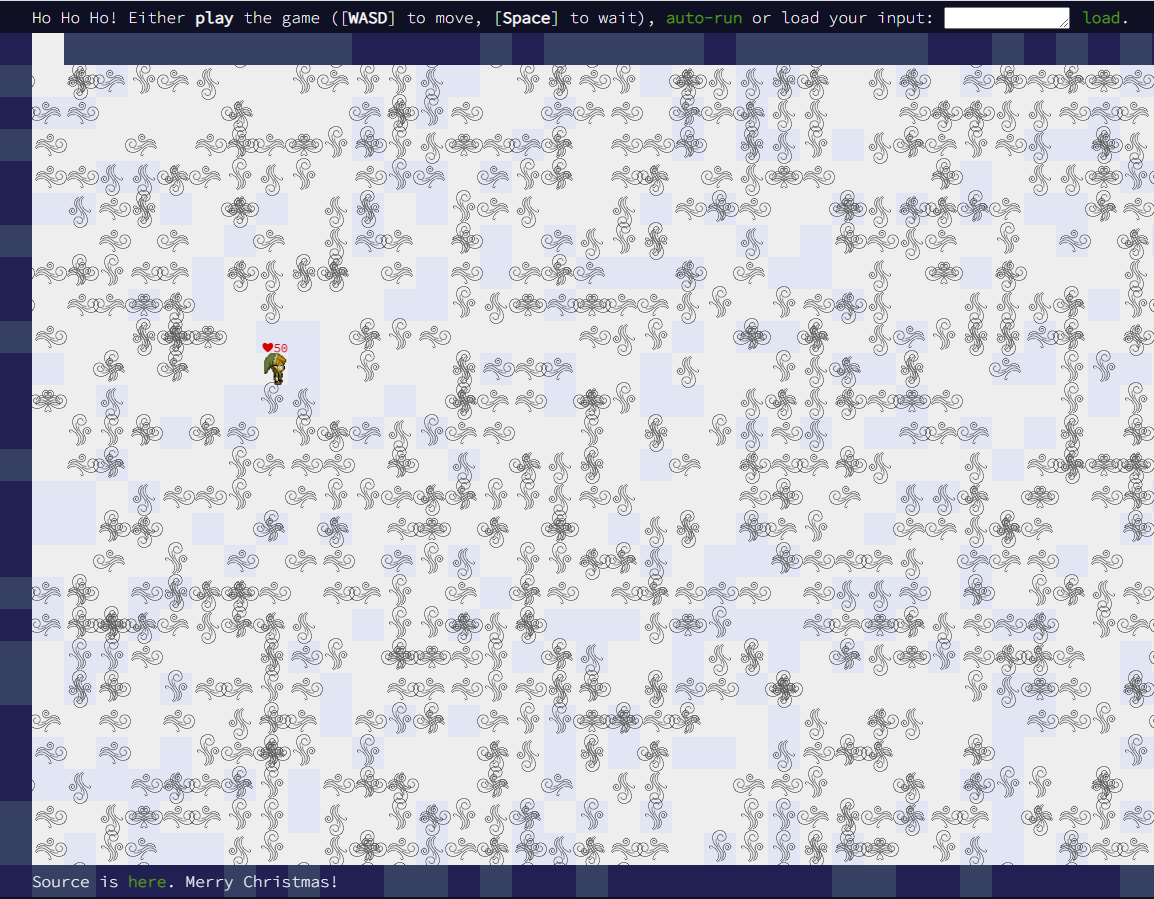
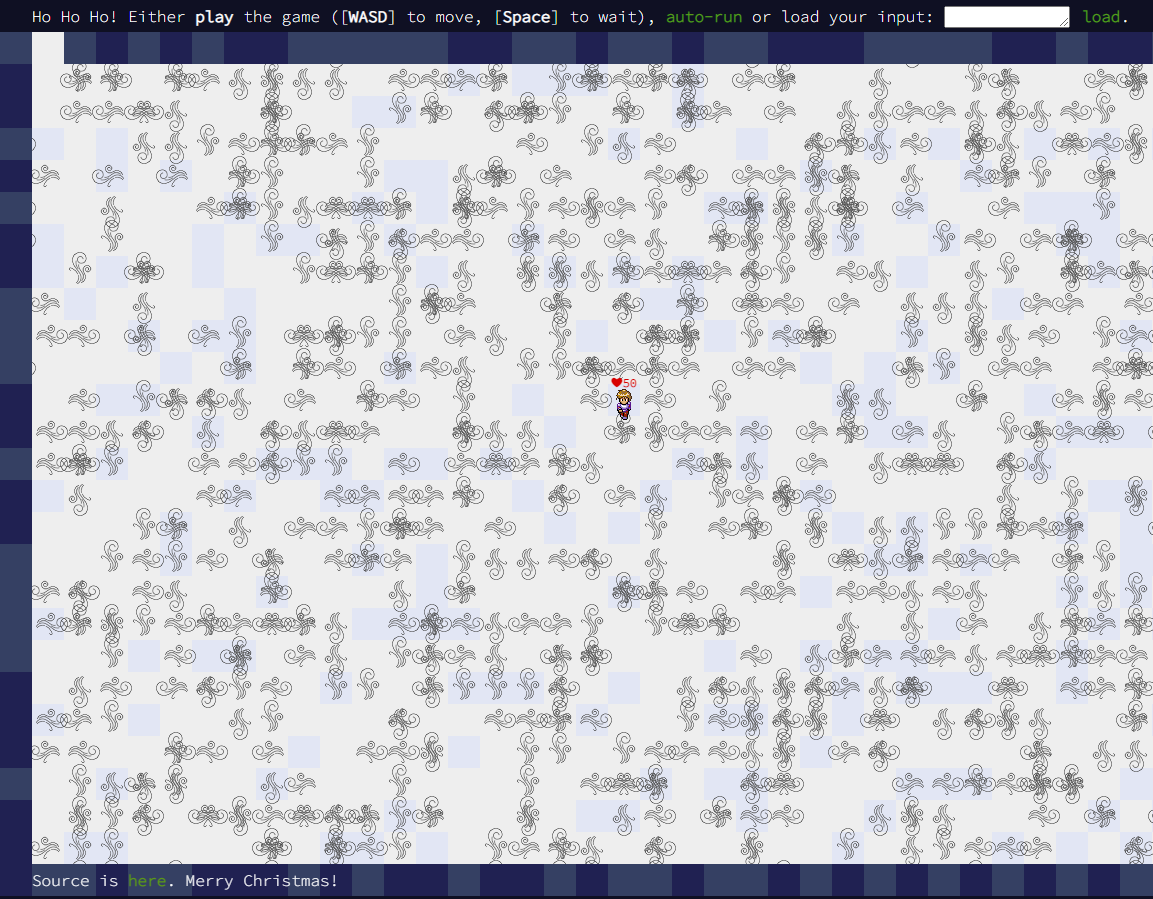
added walking animation

diff --git a/2022/day24/script.game.js b/2022/day24/script.game.js
@@ -10,11 +10,11 @@ const moves = {
     'v': [0, 1]
 }
 const elfSpriteIds = {
-    '^': 0,
-    '<': 1,
-    'v': 2,
-    'wait': 2,
-    '>': 7
+    'v': 0,
+    '^': 1,
+    '<': 2,
+    'wait': 0,
+    '>': 3
 }
 const keyMap = {
     ArrowLeft: '<',
@@ -31,7 +31,7 @@ const keyMap = {
 let map = [], blizMaps = [], dirs = Object.values(moves), movesEntries = Object.entries(moves),
     autoRun = false, elf = {}, step = 0, steps, start, end,
     canvas = document.getElementById('canvas'), ctx = canvas.getContext('2d'), spriteSize = 32,
-    drawing = false, sprites = new Image(), frame = 0, stepStartFrame = false, keysPressed = {};
+    drawing = false, sprites = new Image(), elfSprites = new Image(), frame = 0, stepStartFrame = false, keysPressed = {};
 
 const getBlizMap = t => {
     const safeMod = (a, b) => (a+b*100000000) % b;
@@ -107,12 +107,13 @@ const advanceBlizzards = blizs => blizs.map(b => {
     return b;
 })
 
-const adjust = (dir, animFrame, v) => moves[v][dir]*animFrame
+const adjust = (dir, animFrame, v) => moves[v][dir]*animFrame;
 const drawSprite = (spriteId, [x, y], [ax, ay]) => ctx.drawImage(sprites, spriteId*spriteSize, 0, spriteSize, spriteSize, x*spriteSize+ax, y*spriteSize+ay, spriteSize, spriteSize);
+const drawElfSprite = (spriteId, [x, y], [ax, ay]) => ctx.drawImage(elfSprites, spriteId[0]*24, spriteId[1]*32, 24, 32, x*32+ax+4, y*32+ay, 24, 32);
 
 const drawElf = animFrame => {
     let elfAnimAdj = [0,1].map(d => adjust(d, animFrame, elf.action));
-    drawSprite(elf.spriteId, [elf.x, elf.y], elfAnimAdj);
+    drawElfSprite([elf.action == 'wait' ? 0 : Math.round(animFrame/4) % 8, elf.spriteId], [elf.x, elf.y], elfAnimAdj);
     
     // scroll page into elf view, update hp
     const params = {behavior: 'smooth', inline: 'center', block: 'center'};
@@ -197,7 +198,7 @@ const restart = () => {
     start = {x: map[0].indexOf('.'), y: 0};
     end = {x: map[map.length-1].indexOf('.'), y: map.length-1};
     step = 0;
-    elf = {x: start.x, y: start.y, spriteId: 2, action: 'wait', hp: 50}
+    elf = {x: start.x, y: start.y, spriteId: 0, action: 'wait', hp: 50}
     blizs = [];
     input.split("\n").forEach((l, y) => l.split('').forEach((v, x) => {
         if ('<>^v'.indexOf(v) == -1) return true;
@@ -238,6 +239,7 @@ const initUI = () => {
     });
 }
 
+elfSprites.onload = () => sprites.src = './spritesheet.png';
 sprites.onload = () => {
     restart();
     initUI();
@@ -245,5 +247,4 @@ sprites.onload = () => {
     setInterval(draw, 10);
 }
 
-sprites.src = './spritesheet.png';
-// elf up, elf left, elf down, w left, w up, w down, w right, elf right
+elfSprites.src = './elf.png';
